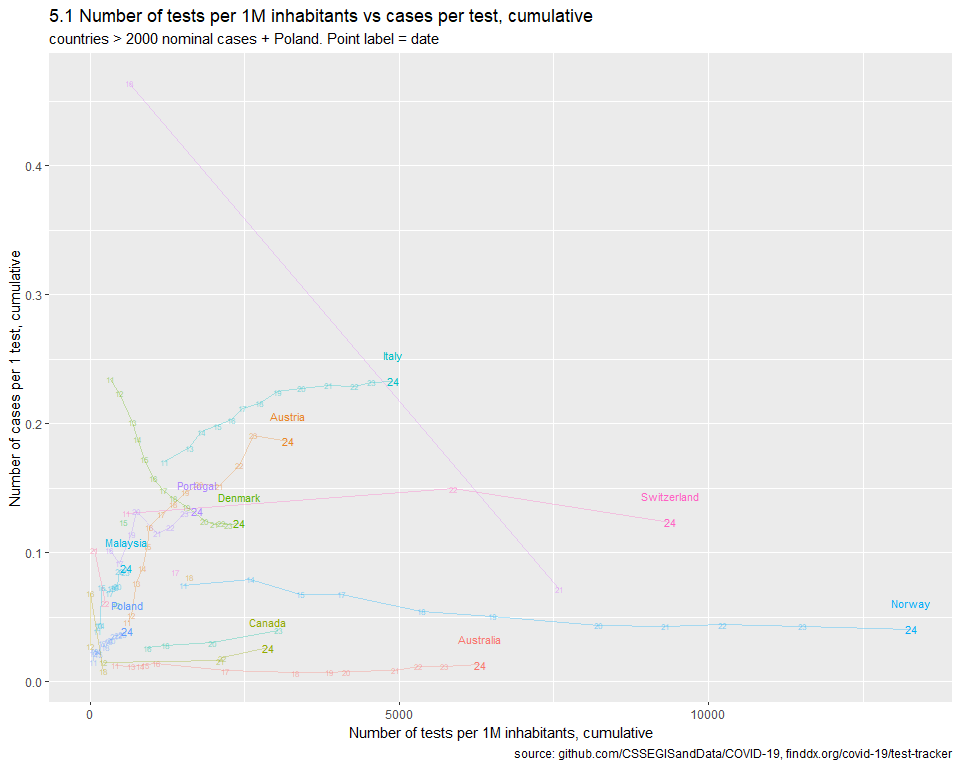
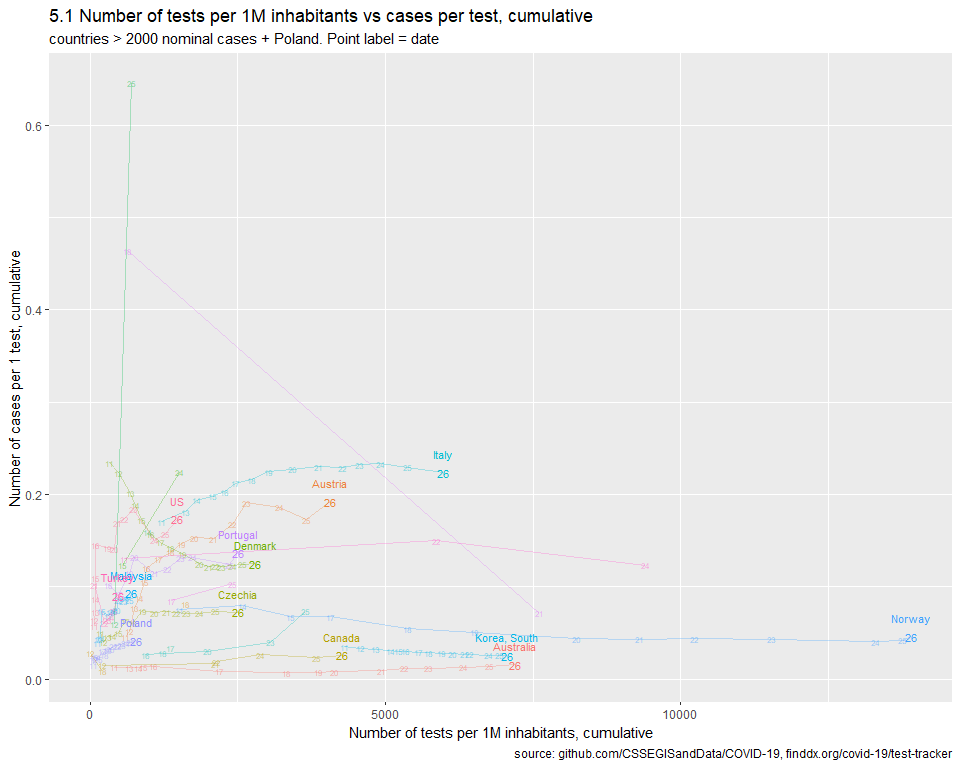
test data updated, new data 27.03

diff --git a/main.md b/main.md
@@ -10,7 +10,7 @@ url_conf <- "https://raw.githubusercontent.com/CSSEGISandData/COVID-19/master/cs
 url_conf <- "https://raw.githubusercontent.com/CSSEGISandData/COVID-19/master/csse_covid_19_data/csse_covid_19_time_series/time_series_covid19_confirmed_global.csv"
 MIN_DATE_TESTS <- "2020-03-10"
 MIN_DATE <- "2020-03-17"
-TODAY    <- "2020-03-26"
+TODAY    <- "2020-03-27"
 TAKE_LOG <- TRUE
 ```
 
@@ -49,6 +49,13 @@ build_data <- function(START_CASES_NO = 1, MIN_CASES = 1000, MAX_CASES = Inf, CH
   
   tests <- fread("Tests.csv", header = TRUE) %>%
     mutate(date = as.Date(date)) %>%
+    mutate(
+      country = if_else(country == "Czech Republic", "Czechia",country),
+      country = if_else(country == "Iran (Islamic Republic of)", "Iran",country),
+      country = if_else(country == "Republic of Korea", "Korea, South",country),
+      country = if_else(country == "USA", "US",country),
+      country = if_else(country == "Mainland China", "China",country)
+    ) %>%
     select(country,date,new_tests,tests_cumulative) %>%
     group_by(country) %>%
     mutate(test_latest = ifelse(date == max(date), 1, 0)) %>%
